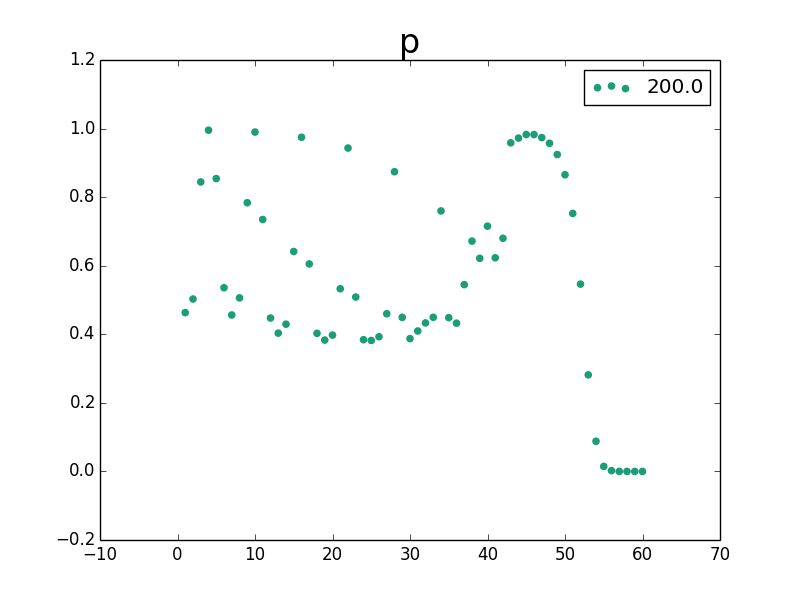
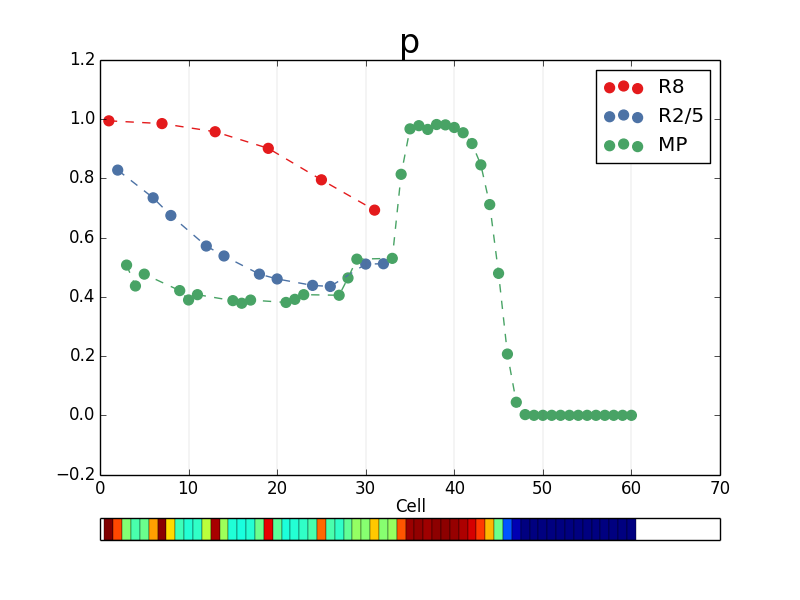
adjusting spi plots

diff --git a/ysp_sm_1d.py b/ysp_sm_1d.py
@@ -137,6 +137,7 @@ print 'simulation done'
 
 import matplotlib.pyplot as plt
 import matplotlib.cm as cm
+import matplotlib.gridspec as gridspec
 
 x_coord = np.linspace(1,NCells,NCells)
 
@@ -174,3 +175,58 @@ def plot_cell(cid,times):
     plt.plot(t[tstart:tend],cdata[cid][tstart:tend,:])
     plt.legend(IM.get_node_names())
     plt.show()
+
+
+# differentiate cell types
+def get_r8s(time):
+    tindex = np.abs(t-time).argmin()
+    return [i for i in xrange(NCells) if cdata[i][tindex,IM.get_node_id('u')] > 0.010]
+
+def get_r25s(time):
+    r25_indices = [ [r8-1,r8+1] for r8 in get_r8s(time)]
+    # not the most readable just flattens the list
+    return [c for pair in r25_indices for c in pair if c >= 0 and c < NCells]
+
+def get_progenitors(time):
+    r8s = get_r8s(time)
+    r25s = get_r25s(time)
+    return [c for c in xrange(NCells) if not c in r8s and not c in r25s]
+
+
+## plot based on these categorizations
+
+def plot_cell_species(species_name,time):
+    tindex = np.abs(t-time).argmin()
+    astatus = np.zeros((NCells,1))
+    for i in xrange(NCells):
+        astatus[i] = cdata[i][tindex,IM.get_node_id(species_name)]
+    r8s = get_r8s(time)
+    r25s = get_r25s(time)
+    progenitors = get_progenitors(time)
+    cell_types = [r8s,r25s,progenitors]
+    # plot along x axis
+    plt.figure()
+    gs = gridspec.GridSpec(2,1,height_ratios=[19,1])
+    # first plot values 
+    ax1 = plt.subplot(gs[0])
+    ax1.xaxis.grid(True,linewidth=0.1,linestyle='-',color='0.4');
+    colors = cm.Set1(np.linspace(0, 1, 10))
+    for j in xrange(len(cell_types)):
+        plt.scatter(x_coord[cell_types[j]],astatus[cell_types[j]],color=colors[j],s=50)
+    plt.legend(['R8','R2/5','MP'],loc='best')
+    for j in xrange(len(cell_types)):
+        plt.plot(x_coord[cell_types[j]],astatus[cell_types[j]],'--',color=colors[j])
+    plt.title(species_name,fontsize=24)
+    plt.xlabel('Cell',labelpad=0)
+    # now plot stripes
+    ax2 = plt.subplot(gs[1],sharex=ax1)
+    xcorners = np.tile(np.linspace(0,NCells,NCells+1)+0.5,(2,1))
+    ycorners = np.tile(np.array([[0],[1]]),(1,NCells+1))
+    plt.pcolor(xcorners,ycorners,astatus.T,edgecolors='k')
+    ax2.xaxis.set_visible(False)
+    ax2.yaxis.set_visible(False)
+    plt.show()
+
+def plot_all_cell_species(time):
+    for n in IM.node_names.keys():
+        plot_cell_species(n,time)

diff --git a/ysp_1d.py b/ysp_1d.py
@@ -130,6 +130,7 @@ print 'simulation done'
 
 import matplotlib.pyplot as plt
 import matplotlib.cm as cm
+import matplotlib.gridspec as gridspec
 
 x_coord = np.linspace(1,NCells,NCells)
 
@@ -167,3 +168,57 @@ def plot_cell(cid,times):
     plt.plot(t[tstart:tend],cdata[cid][tstart:tend,:])
     plt.legend(IM.get_node_names())
     plt.show()
+
+# differentiate cell types
+def get_r8s(time):
+    tindex = np.abs(t-time).argmin()
+    return [i for i in xrange(NCells) if cdata[i][tindex,IM.get_node_id('u')] > 0.010]
+
+def get_r25s(time):
+    r25_indices = [ [r8-1,r8+1] for r8 in get_r8s(time)]
+    # not the most readable just flattens the list
+    return [c for pair in r25_indices for c in pair if c >= 0 and c < NCells]
+
+def get_progenitors(time):
+    r8s = get_r8s(time)
+    r25s = get_r25s(time)
+    return [c for c in xrange(NCells) if not c in r8s and not c in r25s]
+
+
+## plot based on these categorizations
+
+def plot_cell_species(species_name,time):
+    tindex = np.abs(t-time).argmin()
+    astatus = np.zeros((NCells,1))
+    for i in xrange(NCells):
+        astatus[i] = cdata[i][tindex,IM.get_node_id(species_name)]
+    r8s = get_r8s(time)
+    r25s = get_r25s(time)
+    progenitors = get_progenitors(time)
+    cell_types = [r8s,r25s,progenitors]
+    # plot along x axis
+    plt.figure()
+    gs = gridspec.GridSpec(2,1,height_ratios=[19,1])
+    # first plot values 
+    ax1 = plt.subplot(gs[0])
+    ax1.xaxis.grid(True,linewidth=0.1,linestyle='-',color='0.4');
+    colors = cm.Set1(np.linspace(0, 1, 10))
+    for j in xrange(len(cell_types)):
+        plt.scatter(x_coord[cell_types[j]],astatus[cell_types[j]],color=colors[j],s=50)
+    plt.legend(['R8','R2/5','MP'],loc='best')
+    for j in xrange(len(cell_types)):
+        plt.plot(x_coord[cell_types[j]],astatus[cell_types[j]],'--',color=colors[j])
+    plt.title(species_name,fontsize=24)
+    plt.xlabel('Cell',labelpad=0)
+    # now plot stripes
+    ax2 = plt.subplot(gs[1],sharex=ax1)
+    xcorners = np.tile(np.linspace(0,NCells,NCells+1)+0.5,(2,1))
+    ycorners = np.tile(np.array([[0],[1]]),(1,NCells+1))
+    plt.pcolor(xcorners,ycorners,astatus.T,edgecolors='k')
+    ax2.xaxis.set_visible(False)
+    ax2.yaxis.set_visible(False)
+    plt.show()
+
+def plot_all_cell_species(time):
+    for n in IM.node_names.keys():
+        plot_cell_species(n,time)

diff --git a/yan_spi_indirect_lubensky-1d.py b/yan_spi_indirect_lubensky-1d.py
@@ -13,7 +13,7 @@ S,H,U = 0.57,0.0088,4e-6
 G,F = 0.8,0.6
 
 # new stuff
-Ty,Tp,Tsp = 20.0,1.0,100
+Ty,Tp,Tsp = 20.0,1.0,100.0
 
 # all cells have the same internal model
 # 
@@ -223,3 +223,4 @@ def plot_cell_species(species_name,time):
 def plot_all_cell_species(time):
     for n in IM.node_names.keys():
         plot_cell_species(n,time)
+
